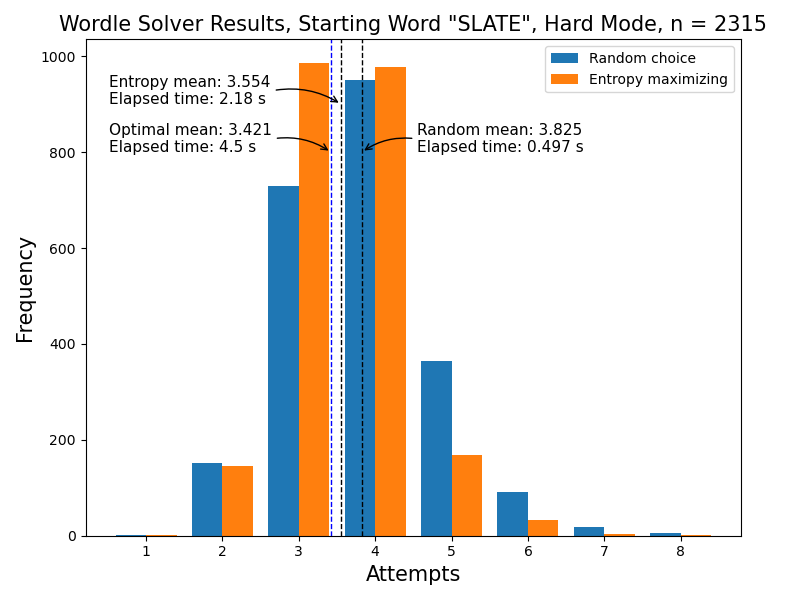
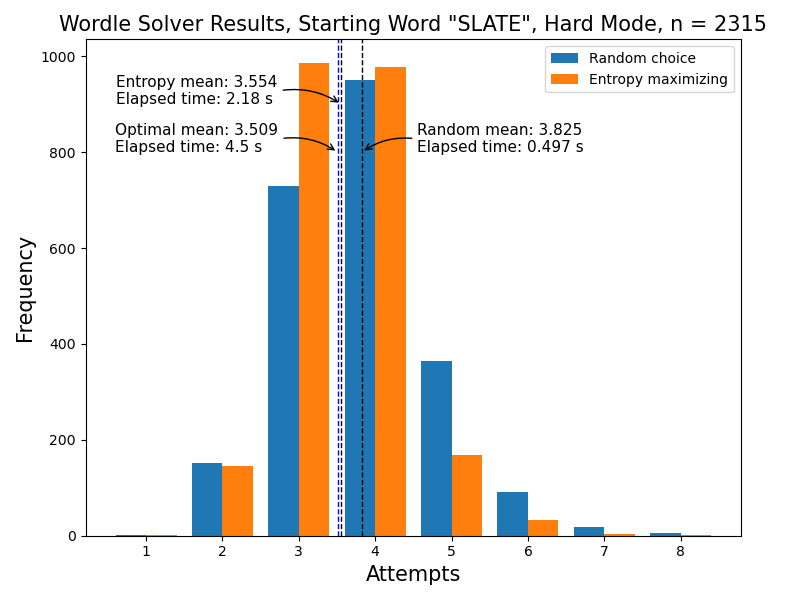
Updated plot

Changed region(s): [[0.125, 0.06, 0.4375, 0.9]]

diff --git a/testing/plot.py b/testing/plot.py
@@ -36,14 +36,14 @@ entropy_mean = np.mean(entropy_data)
 plt.axvline(entropy_mean, c = 'k', ls = '--', lw = 1)
 plt.annotate(f"Entropy mean: {entropy_mean:.3f}\nElapsed time: {entropy_time} s",
             (entropy_mean, 900),
-            xytext = (-167, 0),
+            xytext = (-162, 0),
             textcoords="offset points",
             arrowprops = dict(arrowstyle="->", connectionstyle="arc3,rad=-0.2", relpos = (1,0.5)),
             fontsize = 11)
 
-plt.axvline(3.421, c = 'b', ls = '--', lw = 1)
-plt.annotate("Optimal mean: 3.421\nElapsed time: 4.5 s",
-            (3.421, 800),
+plt.axvline(3.509, c = 'b', ls = '--', lw = 1)
+plt.annotate("Optimal mean: 3.509\nElapsed time: 4.5 s",
+            (3.509, 800),
             xytext = (-160, 0),
             textcoords="offset points",
             arrowprops = dict(arrowstyle="->", connectionstyle="arc3,rad=-0.2", relpos = (1,0.5)),
